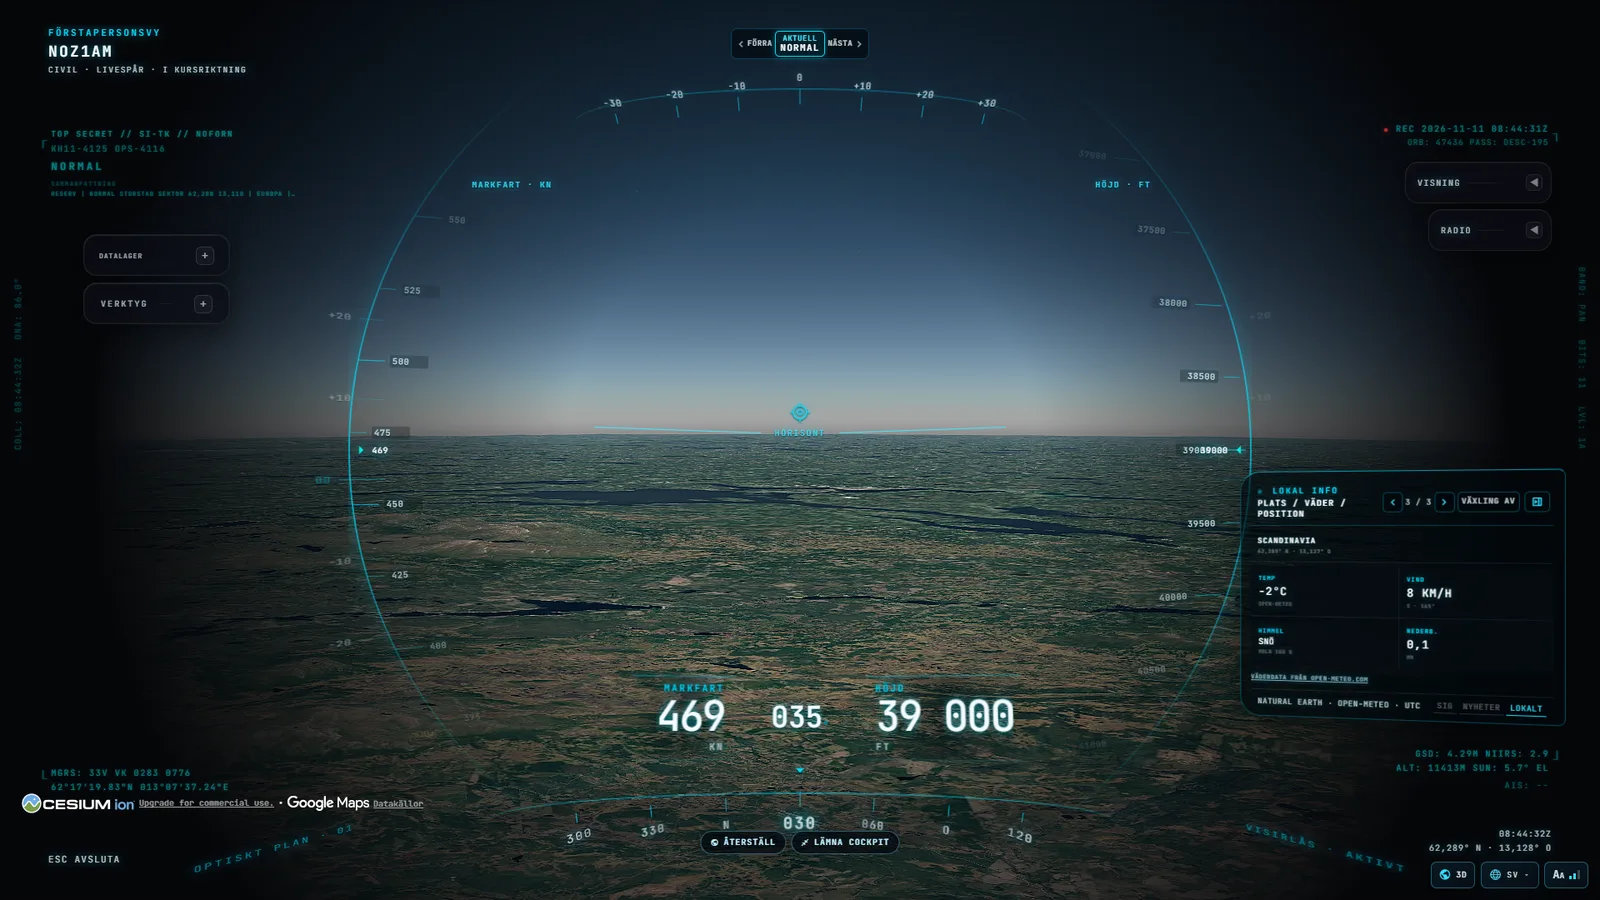
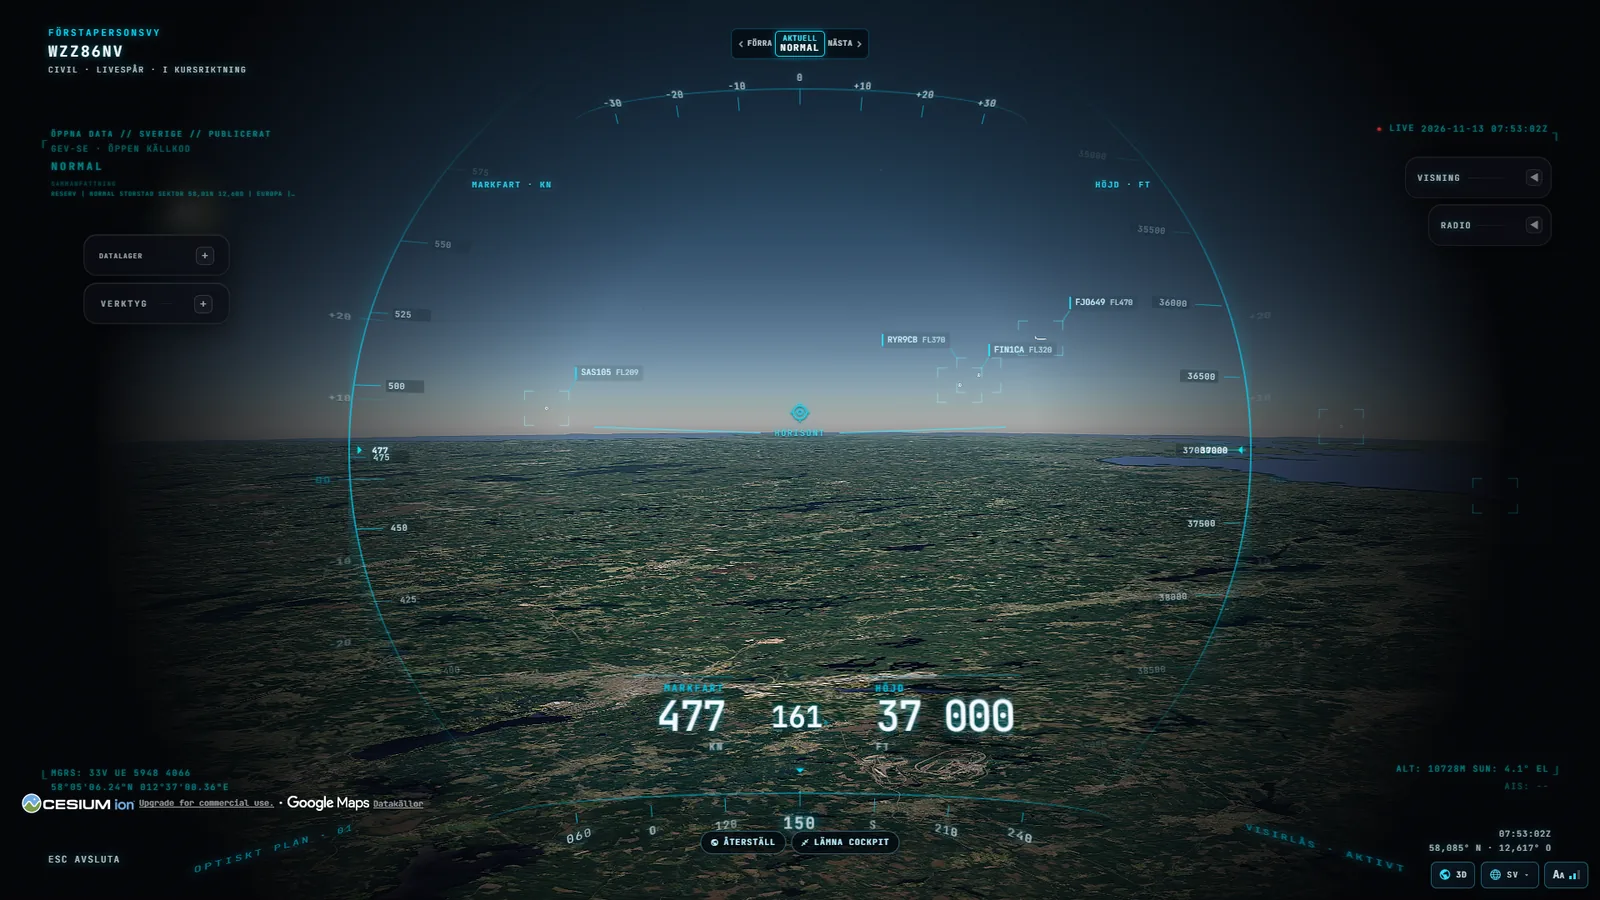
README-bilderna och filmen tagna om med dagens HUD
Bilderna i README, titelanimationen och cockpitklippet i filmen var
tagna före 2026-11-12 och visade originalets sken av hemligstämplad
satellitbild ("TOP SECRET // NOFORN", "KH11"). Alla är tagna om med
dagens HUD, som visar att det är öppna data. Titelanimationen är gjord
av dagens flygtagning med "for promotional purposes only" i bilden, och
cockpitbilden visas utan Open-Meteos väderpanel. Kraftsystemet står med
rätt källa, ENTSO-E.

diff --git a/README.md b/README.md
@@ -14,7 +14,7 @@
 
 ### ▶ Se filmen
 
-https://github.com/user-attachments/assets/43f580bc-75fd-4c19-b739-158fe468ee73
+https://github.com/user-attachments/assets/623694ab-79d8-40cf-9997-c6c95ce91400
 
 _28 sekunder med berättarröst: varje flyg över Sverige och Stockholm i rörelse just nu, och varje stad i siffror. For promotional purposes only. Alla källor står i slutskylten._
 
@@ -35,7 +35,7 @@ Grunden är [God's Eye View](https://github.com/bilawalsidhu/gods-eye-view) av B
 <table>
 <tr>
 <td width="50%"><img src="docs/media/sverige/flygtavlan.webp" alt="Arlandas flygtavla med avgångar och köer"><br><b>Flygtavlan</b>: Swedavias tio flygplatser, hela dagens avgångar och ankomster och köerna i säkerhetskontrollen</td>
-<td width="50%"><img src="docs/media/sverige/cockpit.webp" alt="Cockpit i ett plan på 39 000 fot över Härjedalen"><br><b>Cockpit</b>: i ett plan över Sverige, med Swedavias rader, flygväder och vädret på marken från SMHI</td>
+<td width="50%"><img src="docs/media/sverige/cockpit.webp" alt="Cockpit i ett plan på 37 000 fot över Västergötland"><br><b>Cockpit</b>: i ett plan över Sverige, med Swedavias rader, flygväder och vädret på marken från SMHI</td>
 </tr>
 <tr>
 <td><img src="docs/media/sverige/vagkameror-3d.webp" alt="Trafikverkets vägkamera med livebilden lagd i 3D-scenen"><br><b>Vägkameror i 3D</b>: drygt 1 500 av Trafikverkets kameror med livebilden placerad i scenen</td>
@@ -47,7 +47,7 @@ Grunden är [God's Eye View](https://github.com/bilawalsidhu/gods-eye-view) av B
 </tr>
 <tr>
 <td><img src="docs/media/sverige/fartkameror.webp" alt="Fartkameror som pilar över Stockholm och listan i dossiern"><br><b>Fartkameror</b>: Trafikverkets cirka 2 800 platser, vridna åt det håll kameran pekar</td>
-<td><img src="docs/media/sverige/kraftsystemet.webp" alt="Pilar för elflödet mellan elområdena SE1–SE4 och grannländerna"><br><b>Kraftsystemet</b>: flödena mellan elområdena live från Svenska kraftnät</td>
+<td><img src="docs/media/sverige/kraftsystemet.webp" alt="Pilar för elflödet mellan elområdena SE1–SE4 och grannländerna"><br><b>Kraftsystemet</b>: flödena mellan elområdena och grannländerna från ENTSO-E</td>
 </tr>
 </table>
 
@@ -551,7 +551,7 @@ Twenty-two layers and map sources. **Twenty have a keyless path.** Some offer ad
 | ⚠ **Weather Warnings (Sweden)** | SMHI's impact-based weather warnings as areas coloured yellow, orange or red, paler until they start, with SMHI messages (water shortage, high flows, fire risk) behind a toggle; click an area for what happens and what to think about, in Swedish or English | SMHI | 🟢 |
 | 🚓 **Police Events (Sweden)** | Polisen's latest event notices (traffic, violence, fires and accidents, thefts …) as dots coloured by category, for the last 24 hours, three days or all ~10 days; Polisen names only the municipality, so dots sit around its seat; click a dot for the notice and a link to polisen.se | Polismyndigheten | 🟡 |
 | ⚡ **Electricity Prices (Sweden)** | Spot price per bidding zone SE1–SE4 as coloured, labelled points: this quarter-hour, today's mean or tomorrow's mean; click a zone for the day's low, high and mean | Elpriset just nu.se | 🟢 |
-| 🔌 **Power Grid (Sweden)** | Svenska kraftnät's control room: moving chevrons on every link to and between SE1–SE4, running the way the power flows, as thick and as fast as the flow, labelled 'Poland → SE4 · 459 MW'; the row sums Sweden's import, export and net, and per neighbouring country, with a switch for imports, exports or domestic flows and a chip per country that highlights its links; click a zone for its import, export and Sweden's production by type; a POWER panel on the right rail charts the day so far, or the last seven days the server kept, per quarter-hour (production stacked by type, consumption, and the exchange, export up and import down) with a readout under the pointer | Svenska kraftnät | 🟢 |
+| 🔌 **Power Grid (Sweden)** | ENTSO-E's physical flows (with a free key): moving chevrons on every link to and between SE1–SE4, running the way the power flows, as thick and as fast as the flow, labelled 'Poland → SE4 · 459 MW'; the row sums Sweden's import, export and net, and per neighbouring country, with a switch for imports, exports or domestic flows and a chip per country that highlights its links. Production by type, consumption and the POWER panel need Svenska kraftnät's consent and stay off until then (see SVERIGE.md) | ENTSO-E (CC BY 4.0) | 🟢 |
 | 📻 **Traffic Reports (Sweden)** | Sveriges Radio's traffic messages as dots coloured and sized by priority, filtered by road traffic, public transport, planned works and other | Sveriges Radio | 🟢 |
 | 🚏 **Transit Disruptions (Sweden)** | The regional operators' active disruption notices (GTFS-RT ServiceAlerts) at the stops they touch, coloured closed/not served, moved or other; click a stop for the operator's message | Trafiklab GTFS Regional (key) | 🟢 |
 | 🌊 **Sea Weather (Sweden)** | Sjöfartsverket ViVa stations along the coast, lakes and canals coloured by mean wind or water level, with the windiest values written out; click a station for wind, gusts, water level, temperatures and waves | Sjöfartsverket | 🟢 |

diff --git a/docs/media/README.md b/docs/media/README.md
@@ -54,4 +54,4 @@ Kaj Obst captured the following files from God's Eye View Sverige (this fork) in
 - `sverige/fartkameror.webp`
 - `sverige/kraftsystemet.webp`
 
-They are included as project documentation for this repository and are not covered by the project's MIT License. They show Google Photorealistic 3D Tiles and live public data layers (Trafikverket, Swedavia, SMHI, SCB, Kolada, Valmyndigheten, Wikidata, Svenska kraftnät and others) with the in-app attribution visible in frame; those elements remain subject to Google Maps Platform's and each data provider's terms. Keep the visible attribution intact. `kallor.webp` is a title card from the fork's promotional film.
+They are included as project documentation for this repository and are not covered by the project's MIT License. They show Google Photorealistic 3D Tiles and live public data layers (Trafikverket, Swedavia, SMHI, SCB, Kolada, Valmyndigheten, Wikidata, ENTSO-E and others) with the in-app attribution visible in frame; those elements remain subject to Google Maps Platform's and each data provider's terms. Keep the visible attribution intact. `kallor.webp` is a title card from the fork's promotional film.

diff --git a/SVERIGE.md b/SVERIGE.md
@@ -394,6 +394,19 @@ git merge origin/main
 
 ## Logg över justeringar
 
+### 2026-11-13 (README-bilderna och filmen tagna om med dagens HUD)
+- En egen granskning visade att alla bilder i README, titelanimationen och
+  cockpitklippet i filmen var tagna före 2026-11-12, med originalets
+  sken av hemligstämplad satellitbild ("TOP SECRET // NOFORN", "KH11",
+  omlopps- och passnummer). Appen visar sedan dess vad den visar, öppna
+  data; nu gör bilderna det också. Alla är tagna om, och titelanimationen
+  är gjord av dagens flygtagning med "for promotional purposes only" i
+  bilden.
+- Cockpitbilden visas utan väderpanelen från Open-Meteo, vars fria nivå
+  bara gäller icke-kommersiellt bruk.
+- Kraftsystemet står nu med rätt källa i README: flödena kommer från
+  ENTSO-E, inte Svenska kraftnät, sedan 2026-11-11.
+
 ### 2026-11-12 (fornlämningar från Riksantikvarieämbetet)
 - Nytt lager **Fornlämningar (Sverige)** (delningstoken `0c`) under
   Infrastructure, efter Skyddad natur: Riksantikvarieämbetets registrerade
